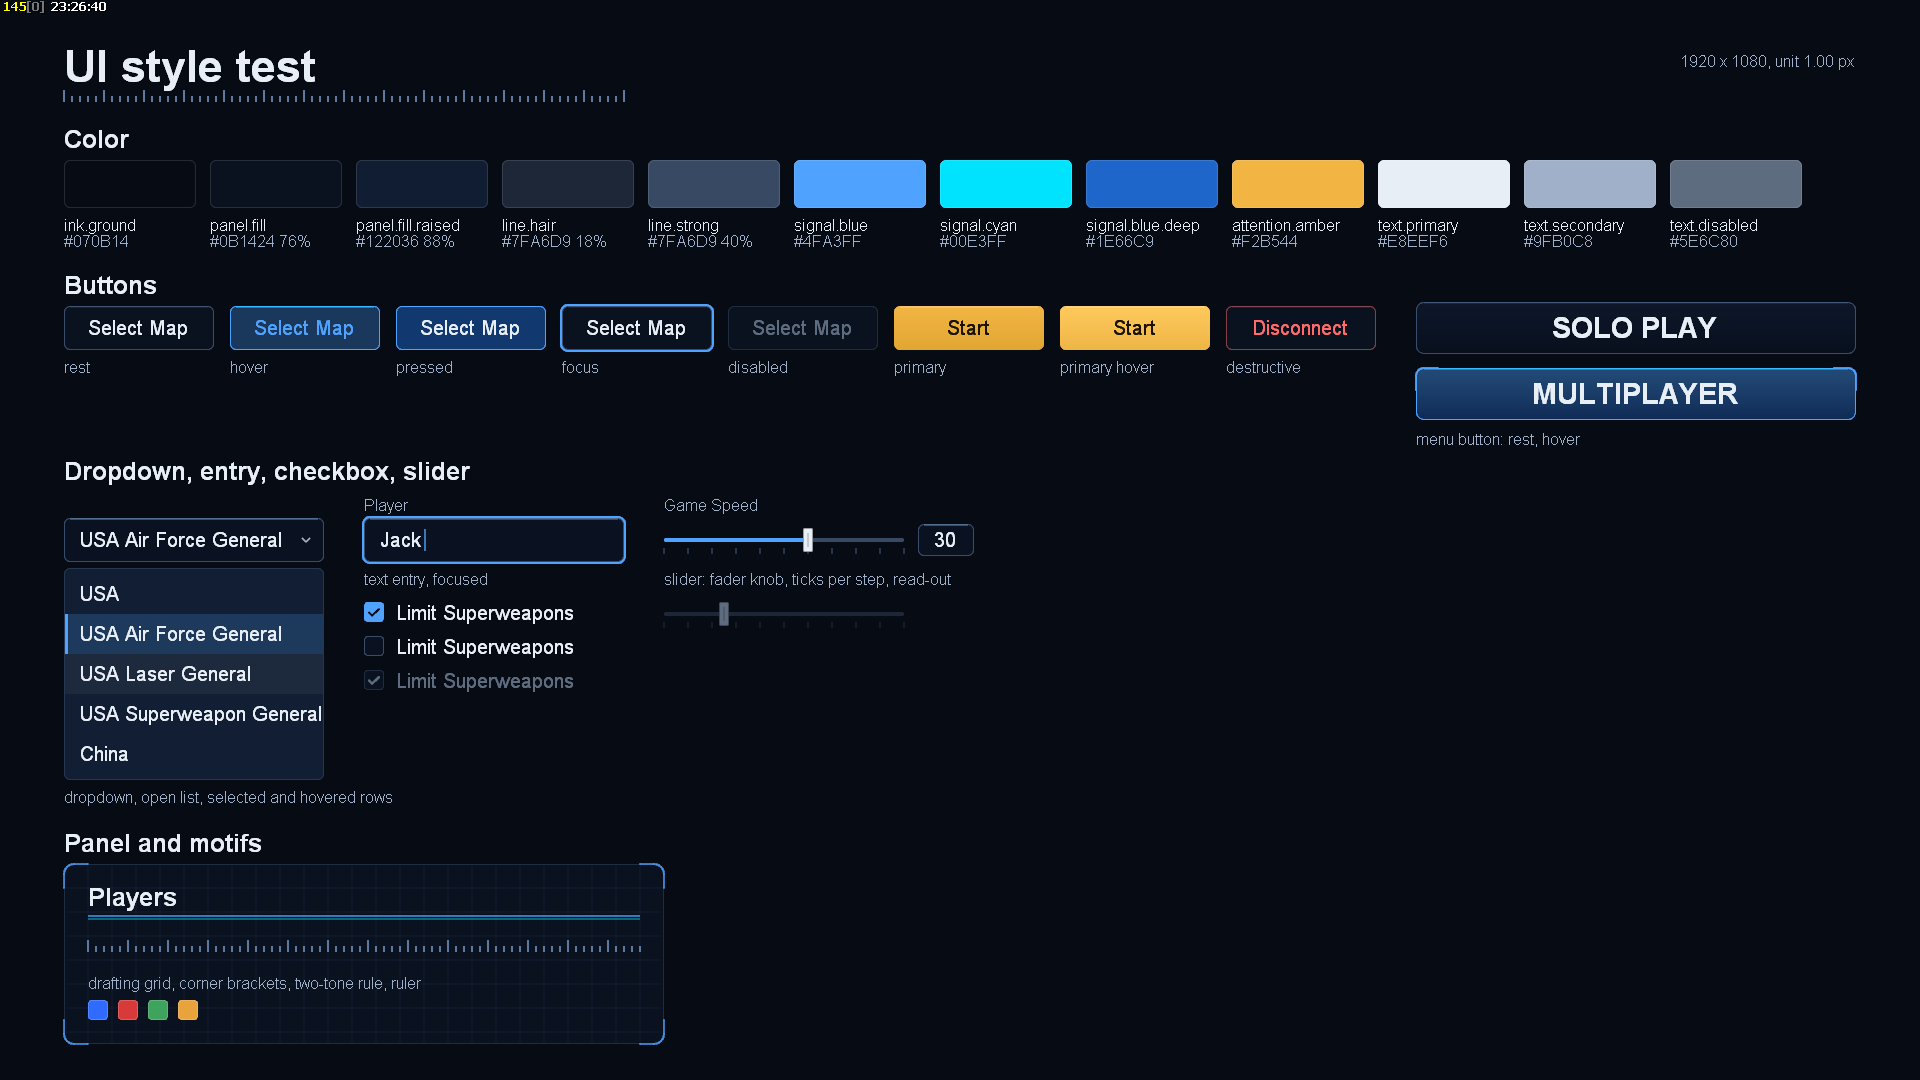
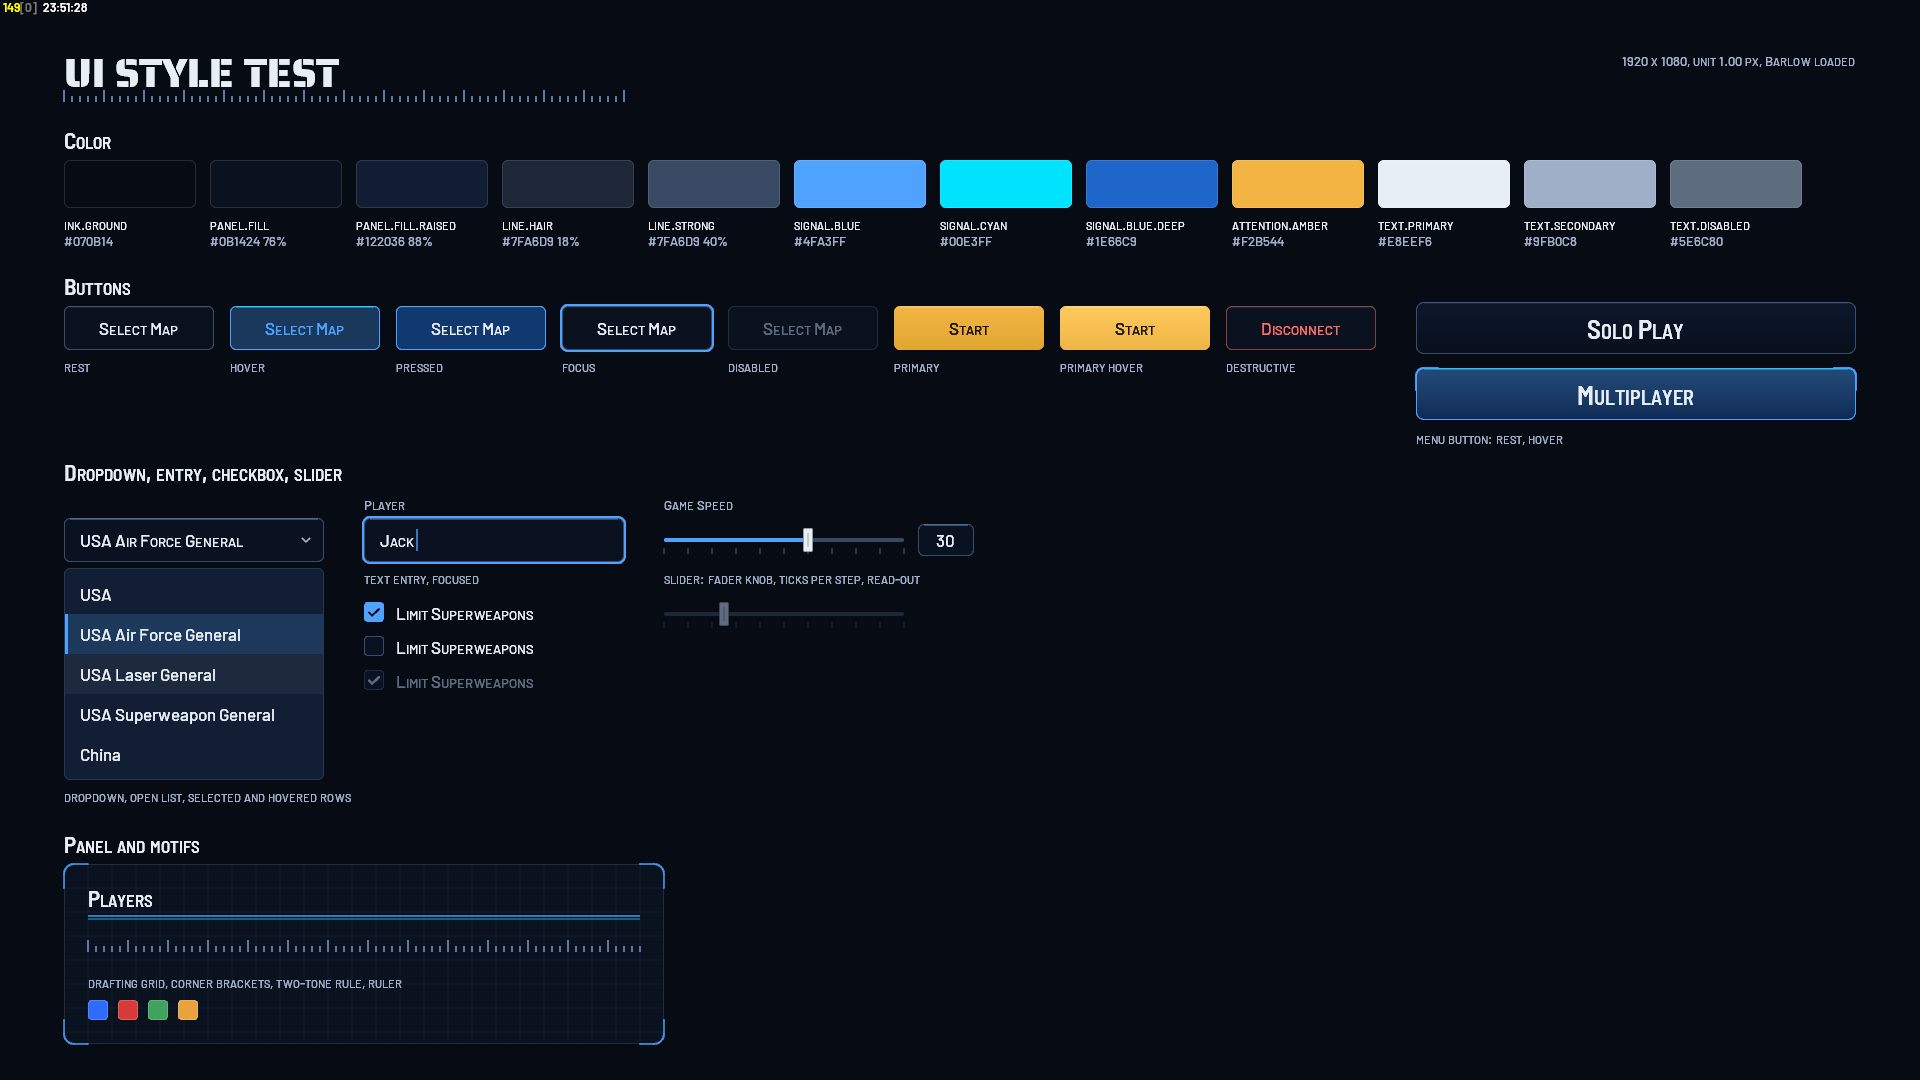
Docs: typeface step recorded; engine captures of the sheet with Barlow at 4K and 1080p, and the legacy shell in Barlow

diff --git a/docs/CODE-MAP.md b/docs/CODE-MAP.md
@@ -43,7 +43,7 @@ One entry per subsystem: path(s), the functions to start reading at, and what ma
 | Headless replay driver | `Core/.../Include/Common/ReplaySimulation.h`, `.../Source/Common/ReplaySimulation.cpp` | `ReplaySimulation::simulateReplays`, `simulateReplaysInThisProcess`, `simulateReplaysInWorkerProcesses`, `resolveFilenameWildcards` | What `verify.ps1` drives. `-jobs N` spawns `"<exe>" -headless -useCwd -replay "<file>"` workers; exit 1 if any replay errored. Wildcards resolve only inside `<UserData>\Replays\`; absolute paths must be literal. |
 | Crash handling | `GeneralsMD/Code/Main/WinMain.cpp` (~777/807), `GeneralsMD/.../Source/Common/System/StackDump.cpp`, `Core/.../Source/Common/System/Debug.cpp`, `Core/Libraries/Source/MiniDumper/MiniDumper.cpp` | `UnHandledExceptionFilter`, `DumpExceptionInfo`, `RELEASE_CRASH` / `ReleaseCrash`, `MiniDumper::TriggerMiniDumpForException` | Writes `CrashM*` (minimal) + `CrashF*` (full) `.dmp` to `<UserData>\CrashDumps\` and `<UserData>\ReleaseCrashInfo.txt`. `GameEngine::execute` catches exceptions from `update()` → `RELEASE_CRASH`. Our side: `scripts/postmortem.ps1`. |
 | User data path & logs | `GeneralsMD/.../Source/Common/GlobalData.cpp` (~1340), `.../System/registry.cpp`, `Core/Libraries/Source/Lib/Debug.cpp` | `GlobalData::BuildUserDataPathFromRegistry`, `getPath_UserData`, `DebugOpenLogFile` | `<UserData>` = Documents + registry `UserDataLeafName` (fallback `Command and Conquer Generals Zero Hour Data`); TSH handles OneDrive redirection (Mauller 2026-03). `DebugLogFile*.txt` is written **next to the exe**, only in builds with logging (`*-releaselog` presets), not in plain Release. |
-| Menu UI system (ours) | `Core/.../Include/GameClient/UIStyle.h`, `.../Source/GameClient/GUI/UIStyle.cpp`, `UIStyleTest.h/.cpp`; primitives in `GameClient/Display.h` + `W3DDevice/GameClient/W3DDisplay.cpp` (`drawRoundedRect`, `drawRoundedRectVGradient`, `drawRoundedOutline`, `drawDisc`, `drawPolyline`) | `UIStyle::palette`, `UIStyle::u`, `UIStyle::Draw::*`, `UIStyleTest::draw` (hooked from `InGameUI::postWindowDraw`) | Spec: `docs/UI-DESIGN.md`. 1 design unit = display height / 1080. Primitives tessellate through `Render2DClass` (winding follows `Add_Quad`'s rect convention); gradients mixed in linear light. `-uitest` draws the component sheet, `-classicui` disables the system. Client-side only. |
+| Menu UI system (ours) | `Core/.../Include/GameClient/UIStyle.h`, `.../Source/GameClient/GUI/UIStyle.cpp`, `UIFonts.h/.cpp` (Fonts\ registration, legacy name substitution, roles), `UIStyleTest.h/.cpp`; primitives in `GameClient/Display.h` + `W3DDevice/GameClient/W3DDisplay.cpp` (`drawRoundedRect`, `drawRoundedRectVGradient`, `drawRoundedOutline`, `drawDisc`, `drawPolyline`) | `UIStyle::palette`, `UIStyle::u`, `UIStyle::Draw::*`, `UIStyle::Text::draw` (small caps), `UIFonts::substitute` (called from `FontLibrary::getFont`), `UIStyleTest::draw` (hooked from `InGameUI::postWindowDraw`) | Spec: `docs/UI-DESIGN.md`. 1 design unit = display height / 1080. Primitives tessellate through `Render2DClass` (winding follows `Add_Quad`'s rect convention); gradients mixed in linear light. `-uitest` draws the component sheet, `-classicui` disables the system. Client-side only. |
 | UI layout files (`.wnd`) | `Core/.../Source/GameClient/GUI/GameWindowManagerScript.cpp` | `GameWindowManager::winCreateFromScript` (~2733), `parseWindow`, `parseScreenRect` (~532) | All 1,670 rects in `WindowZH.big` are authored at `CREATIONRESOLUTION 800 600` and scaled by independent x/y ratios (the 16:9 stretch). The redesign replaces this per screen with layout descriptions (UI-DESIGN §6.4); the HUD keeps it. |
 | Mapped images (UI sprite atlases) | `Core/.../Source/GameClient/Image.cpp`; data `Data\INI\MappedImages\TextureSize_512\*.INI` in the root `INIZH.big` | `ImageCollection::load`, `Image::parseImageCoords` (~84) | UVs = `Coords / TextureWidth,Height`. Real art the redesign keeps as images: `GeneralsLogo` (370×120, 24/27 px transparent padding), `*FactionLogo96_*`, the battle-honour medals (`HonorStreak_*`, `Endurance_*`, `Domination_*`, `*Campaign_*`, `Challenge_*`, `HonorBlitz5`, `Apocalypse`, `HonorBattleTank`). The blueprint frame is `MainMenuRuler` (UI art), gone in the redesign. |
 

diff --git a/docs/UI-DESIGN.md b/docs/UI-DESIGN.md
@@ -172,10 +172,18 @@ parsed by the existing INI reader) that names the windows of the `.wnd` file and
 membership in units. Applied after `winCreateFromScript` creates the windows, so callbacks and names are untouched. Windows
 not mentioned keep their legacy position (and are flagged in the dev overlay so none is forgotten).
 
-6.5 **Type.** Fonts ship as `.ttf` under `<gameDir>\Fonts\` (OFL text beside them) and are registered at start with
-`AddFontResourceEx(FR_PRIVATE)`. A substitution table maps the historical names (`Times New Roman`, `Arial`, `Generals`) to
-the Barlow faces per role; `FontLibrary::getFont` applies it. Font sizing uses the height-based method so text and layout
-scale together.
+6.5 **Type.** Built 2026-10-22. Fonts ship as `.ttf` under `<gameDir>\Fonts\` (`config/Fonts` in the repo, OFL text beside
+them; stage-install and package copy `config/*`) and are registered process-private on first use (`UIFonts::ensureInit`,
+`AddFontResourceEx(FR_PRIVATE)`), so nothing is installed on the machine. GDI sees Google's static cuts as their own
+families: `Barlow Medium`, `Barlow SemiBold`, `Barlow Semi Condensed Medium`, `Barlow Semi Condensed SemiBold`,
+`Saira Stencil One`; a weight is chosen by family, never by `FW_BOLD`, which GDI would synthesise. `FontLibrary::getFont`
+maps the historical names (`Arial`, `Times New Roman`, `Generals`, `Placard MT Condensed`) onto them while the system is on,
+so every legacy screen and the HUD pick the typeface up at once; `-classicui` restores the originals; Courier and the Unicode
+fallback are left alone. Role sizes are design units treated as pixels: `Create_GDI_Font` takes points at 96 dpi, so the
+request is `units × 0.75` points. Small caps (`UIStyle::Text`): a string is split into runs, lowercase runs are uppercased
+and set in the same face at 78% size, baseline-aligned by the ascent ratio; the sentence renderer reports each run's width
+with the last glyph's overlap padding, measured per font as `2·w("H") − w("HH")` and subtracted at every join. Legacy
+screens keep the user's resolution font adjustment until they are redesigned; the new system sizes text in units only.
 
 6.6 **Dev tooling.** `-uiscreen <Layout.wnd>` opens a named screen directly at start; `-uioverlay` draws anchors, stacks and
 unplaced windows; `run.ps1 -Screen x -Res 1920x1080|3840x2160` screenshots a screen at a resolution.
@@ -183,8 +191,9 @@ unplaced windows; `run.ps1 -Screen x -Res 1920x1080|3840x2160` screenshots a scr
 ## 7. Delivery
 
 1. Sign-off on this document and the mockups (palette, type, main menu, skirmish setup). ← **we are here**
-2. Primitives + style module + the component sheet rendered by the engine as a test screen. Screenshots at 4K and 1080p.
-3. Fonts in, substitution table, sizing method. Screenshot pass.
+2. ~~Primitives + style module + the component sheet rendered by the engine as a test screen.~~ Done 2026-10-22, passed.
+3. ~~Fonts in, substitution table, sizing method.~~ Done 2026-10-22; captures in `docs/ui-screens` (sheet at 4K and 1080p,
+   the legacy main menu already in Barlow).
 4. Main menu on the new system end to end (layout description, text buttons, status line). Sign-off.
 5. Skirmish setup. Sign-off. Then, one screen per step: Solo play, Load/Save, Replay, Multiplayer (LAN lobby, Direct connect,
    game options), Options dialog shell, Quit/confirm dialogs.

diff --git a/docs/AGENT-TODO.md b/docs/AGENT-TODO.md
@@ -33,8 +33,9 @@ These need the actual source tree or a Windows machine, so bootstrap.ps1 left th
 - [x] **7. `/LARGEADDRESSAWARE`** — set 2026-10-22 (`GeneralsMD/Code/Main/CMakeLists.txt`); PE characteristics 0x122; CRC unchanged.
 - [~] **16. Menu UI system** (`render/ui`, spec `docs/UI-DESIGN.md`, mockups linked there). Done: primitives (`Display::drawRounded*`,
       `drawDisc`, `drawPolyline` in `W3DDisplay`), `UIStyle` tokens/renderers, `-uitest` component sheet, `-classicui` switch.
-      **Next:** screenshots of the sheet at 4K and 1080p for the human (step 2 sign-off), then typeface (fonts folder +
-      substitution + height-based sizing), main menu layout description, skirmish setup, remaining shell screens. Parked on
+      Step 2 passed 2026-10-22. Step 3 done the same day: `config/Fonts` (Barlow, Barlow Semi Condensed, Saira Stencil One, OFL),
+      `UIFonts` registration + legacy name substitution in `FontLibrary::getFont`, `UIStyle::Text` small caps.
+      **Next:** main menu layout description (§6.4) and the main menu end to end, then skirmish setup, remaining shell screens. Parked on
       `render/textures`: texture-pack scripts and the earlier gadget/anchoring drafts (superseded).
 - [~] **8. First netcode fix: adaptive retry timer** — implemented 2026-10-21 on `net/retry` (`Connection.cpp` `processAck`): retry after
       1.5× max(current sample, running average), floor 80 ms, cap 500 ms; 250 ms before the first ack (was a fixed 2000 ms). No backoff yet.
